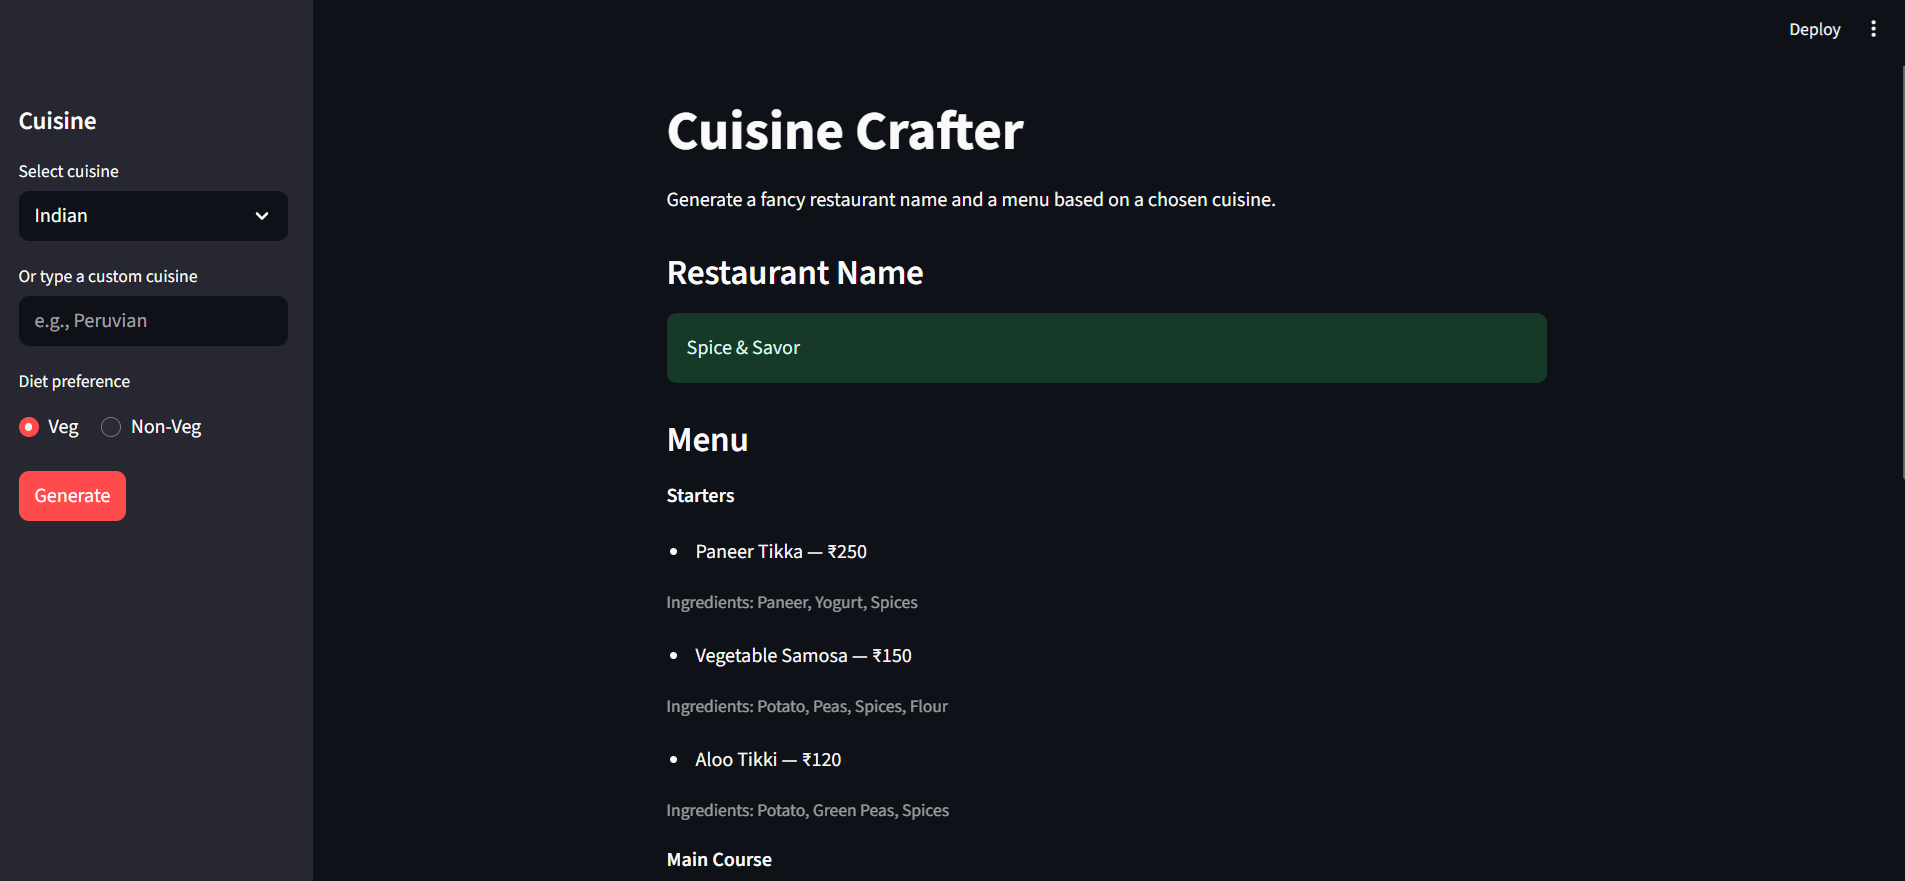
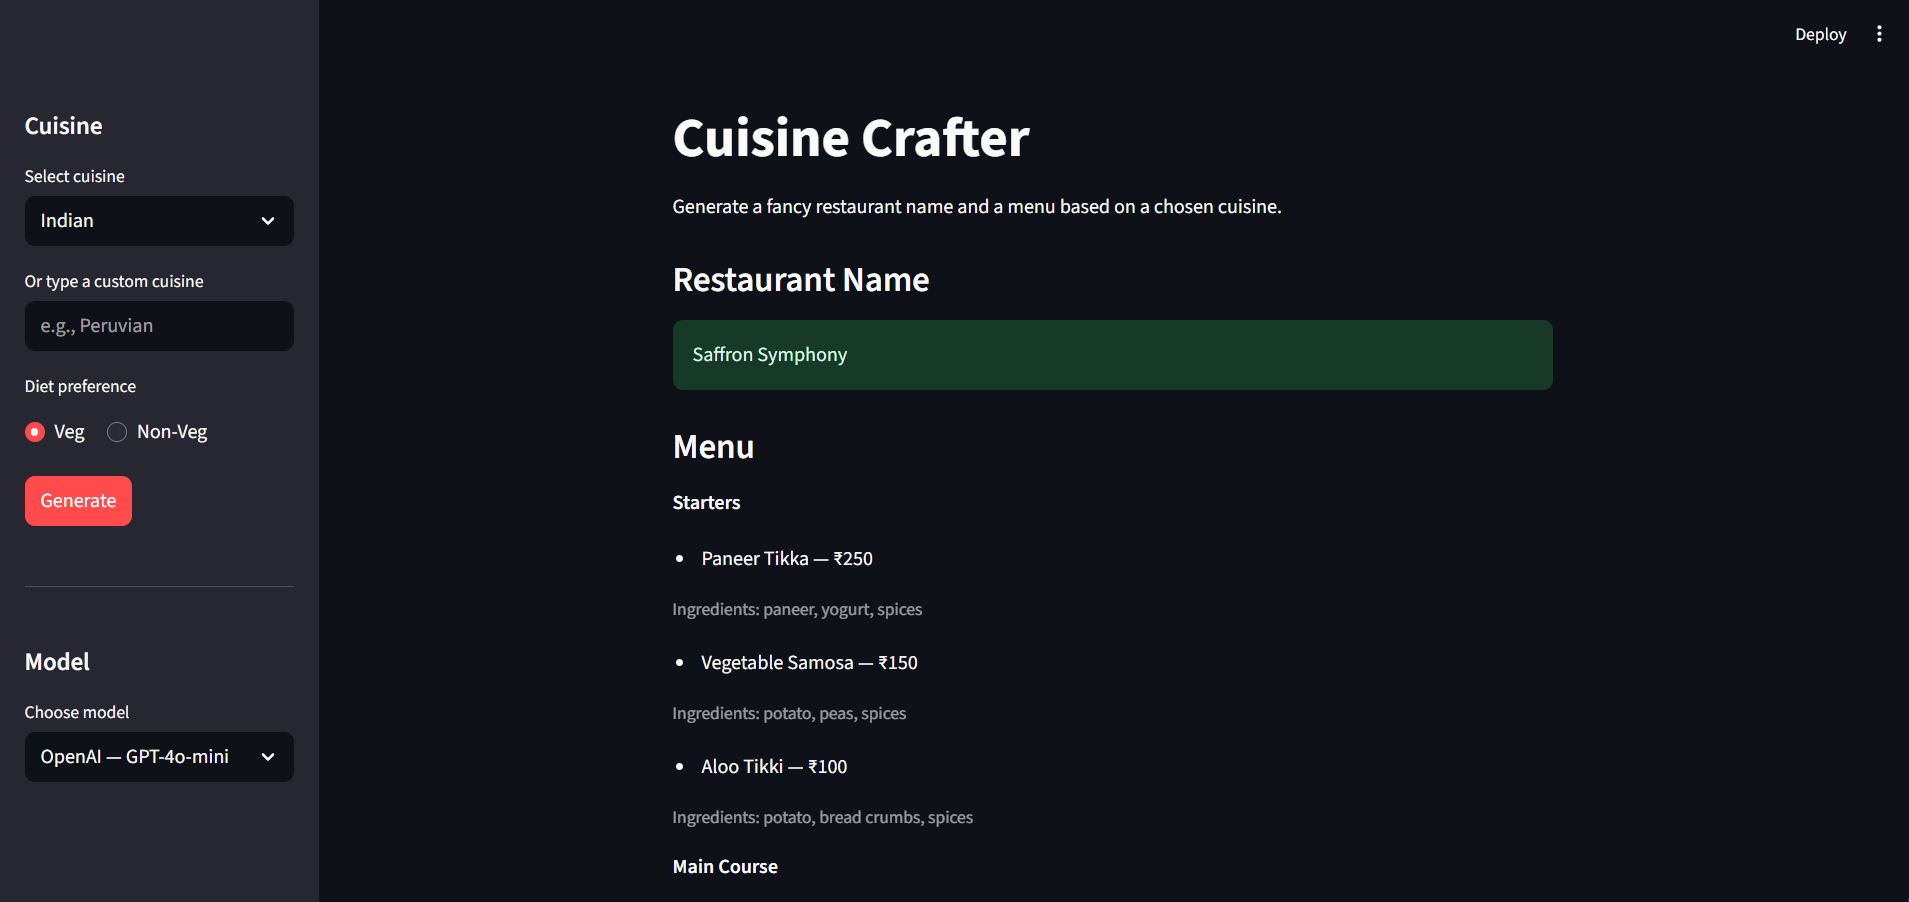
Update README and .env.example to support multiple LLM providers; enhance instructions for API key configuration and add sidebar model selection feature.

diff --git a/README.md b/README.md
@@ -2,10 +2,12 @@
 
 ![Cuisine Crafter screenshot](assets/screenshot.png)
 
-Generate a fancy restaurant name and a menu from a chosen cuisine using LangChain and OpenAI. Built with Streamlit.
+Generate a fancy restaurant name and a menu from a chosen cuisine using LangChain, with a sidebar selector to choose among popular LLM providers/models. Built with Streamlit.
 
 ## Features
 - Choose a cuisine or type your own
+- Choose the LLM model in the sidebar (OpenAI, Anthropic, Google, Groq, Mistral, OpenRouter)
+- Validates the required API key for the selected provider
 - Generates a fancy restaurant name
 - Generates a category wise menu items and displays them
 
@@ -24,10 +26,22 @@ pip install -r requirements.txt
 ```
 
 ### 2) Configure API key
-Create a `.env` file (copy from `.env.example`) and set your OpenAI key:
+Create a `.env` file (copy from `.env.example`) and set the API key for the provider you plan to use. The app will validate the required variable based on your model selection in the sidebar.
 ```bash
 cp .env.example .env
-# edit .env and set OPENAI_API_KEY
+# edit .env and set one of the following, depending on provider:
+# OPENAI_API_KEY=...
+# ANTHROPIC_API_KEY=...
+# GOOGLE_API_KEY=...
+# GROQ_API_KEY=...
+# MISTRAL_API_KEY=...
+# OPENROUTER_API_KEY=...
+```
+
+Example `.env` content for OpenAI:
+
+```bash
+OPENAI_API_KEY=sk-...
 ```
 
 ### 3) Run Streamlit app
@@ -38,10 +52,24 @@ streamlit run web.py
 Open the printed local URL in your browser.
 
 ## How it works
-- Uses `langchain`'s `init_chat_model` to create an OpenAI chat model (`gpt-4o-mini`).
-- Step 1: Prompt to produce a single restaurant name from the cuisine.
-- Step 2: Prompt to produce comma-separated menu items from the name.
+- Uses `langchain`'s `init_chat_model` to create a chat model for the user-selected provider and model.
+- Validates the corresponding API key environment variable for the chosen provider.
+- Step 1: Prompt to produce a single restaurant name from the cuisine and diet.
+- Step 2: Prompt to produce a structured JSON menu (parsed and rendered in the UI).
 - Implemented with LangChain Runnables and a `StrOutputParser` for clean strings.
 
 Key code is in `web.py`.
+
+### Supported model options (sidebar)
+
+The sidebar presents a curated list of popular models across providers:
+
+- OpenAI — `gpt-4o-mini`, `gpt-4o`, `o3-mini` (env: `OPENAI_API_KEY`)
+- Anthropic — `claude-3-5-sonnet-20240620` (env: `ANTHROPIC_API_KEY`)
+- Google — `gemini-1.5-flash` (env: `GOOGLE_API_KEY`)
+- Groq — `llama-3.1-70b-versatile` (env: `GROQ_API_KEY`)
+- Mistral — `mistral-large-latest` (env: `MISTRAL_API_KEY`)
+- OpenRouter — `anthropic/claude-3.5-sonnet` (env: `OPENROUTER_API_KEY`)
+
+You can replace or extend these options inside the `with st.sidebar:` block in `web.py`.
 
